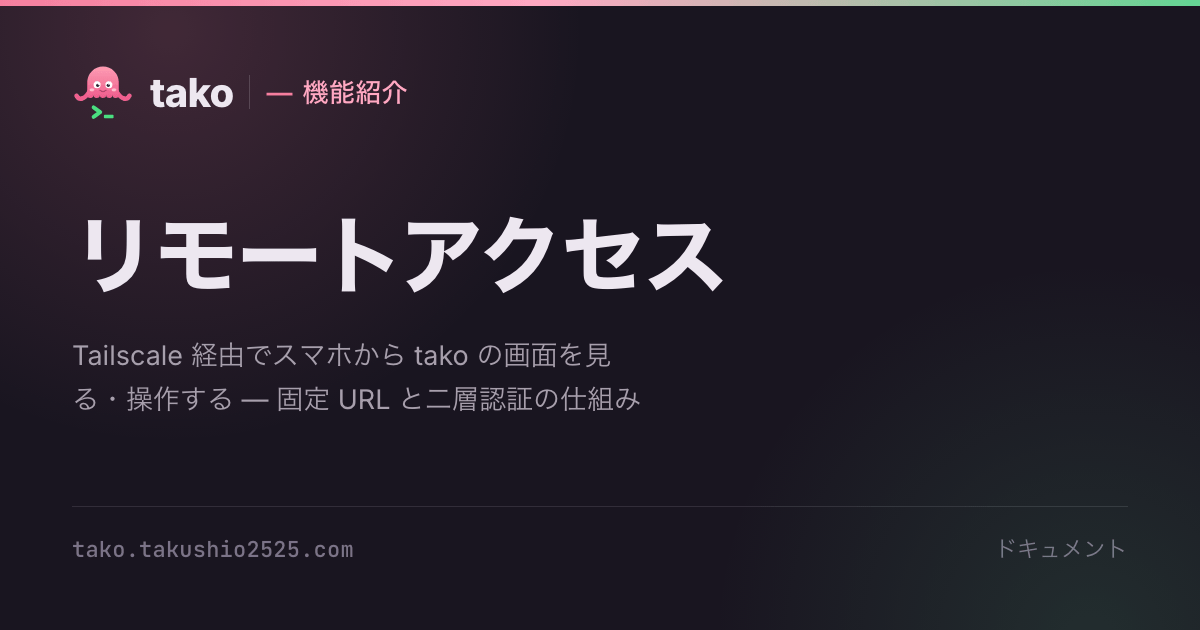
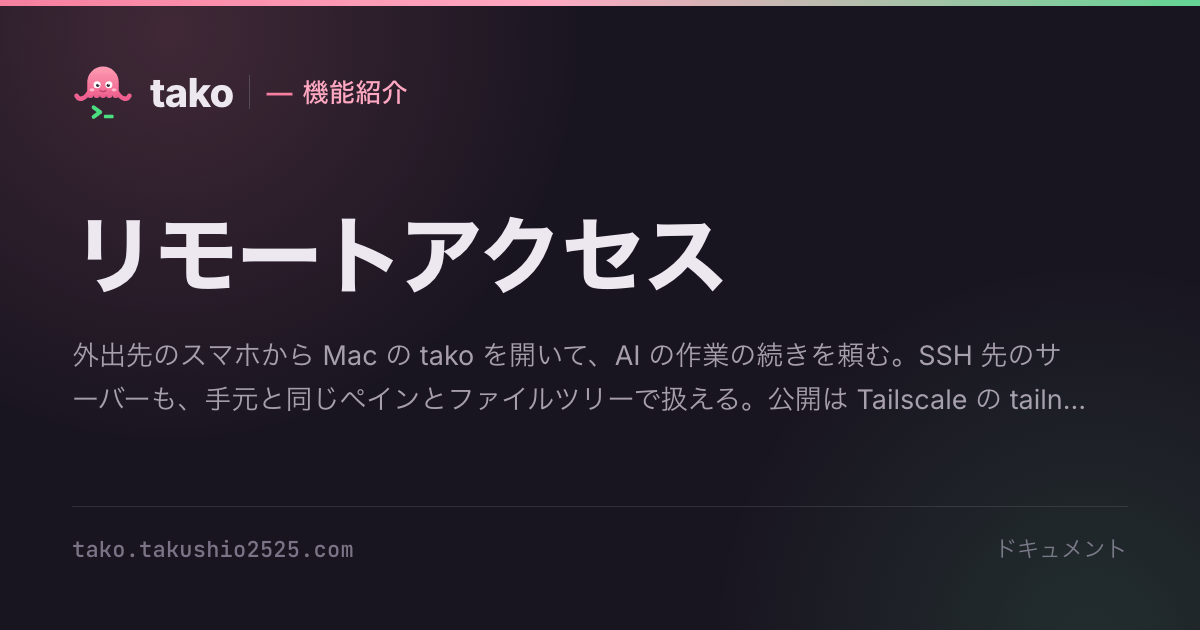
[ドキュメント] リモートのページの見え方を撮影で詰め、表を HTML にして OG を焼き直す (#2061)
スマホの再現を幅のある枠で一段大きくし、ペアリングの画面が収まる高さにした。
「新規」「実行」の折り返し・チャットの入力欄の見切れ・編集欄の余計な改行・
ツリーの「app」が潰れるのを直し、ポインターを押す先に合わせた
（SSH のホスト選択のポインターはパレットと一緒に消える）。
この版の MDX では GFM の表が効かないので、権限とコマンドの表は HTML で書いた。
説明文を変えたので features-remote の OG 画像を焼き直した。progress.md に追記。

Claude-Session: https://claude.ai/code/session_01NJ9RDPGyrij5aVryjACdQm

Changed region(s): [[0.0617, 0.5429, 0.8942, 0.6635]]

diff --git a/docs/src/styles/tako-ui-remote.css b/docs/src/styles/tako-ui-remote.css
@@ -210,6 +210,11 @@
   min-width: 0;
 }
 .tk-rside .tk-tree-row > span {
+  flex: none;
+}
+.tk-rside .tk-tree-row > .tk-ssh-badge {
+  flex: 0 1 auto;
+  min-width: 0;
   overflow: hidden;
   text-overflow: ellipsis;
 }
@@ -257,8 +262,15 @@
 /* ============================================================
  * スマホ（ヘッダーを場面ごとに描く版。PhoneBare.astro）
  * ============================================================ */
-.tk-phone-bare {
+.tk-phone.tk-phone-bare {
   position: relative;
+  font-size: 11px;
+}
+/* 幅に余裕がある枠では一段大きく描く（再現した画面の文字を読める大きさにする） */
+@container tkframe (min-width: 26rem) {
+  .tk-phone.tk-phone-bare {
+    font-size: 12px;
+  }
 }
 .tk-phone-bare .tk-phone-body {
   padding: 0;
@@ -270,15 +282,29 @@
 }
 /* 一覧の上部（PhoneHead.astro）。ボタンが 3 つ並ぶので一段詰める */
 .tk-phone-head-list .tk-phone-btn {
-  min-width: 2.1em;
-  height: 2.1em;
-  padding: 0 0.4em;
+  min-width: 2em;
+  height: 2em;
+  padding: 0 0.35em;
+  white-space: nowrap;
 }
 .tk-phone-head-list .tk-phone-new {
   display: inline-flex;
   gap: 0.2em;
   font-weight: 700;
   color: var(--ph-fg);
+}
+.tk-phone-head-list {
+  gap: 0.35em;
+  padding-inline: 0.7em;
+}
+.tk-phone-head-list .tk-phone-actions {
+  gap: 0.25em;
+}
+.tk-phone-head-list .tk-machine {
+  padding-inline: 0.55em;
+}
+.tk-phone-head-list .tk-machine i {
+  flex: none;
 }
 .tk-phone-head-list .tk-machine {
   min-width: 0;
@@ -462,6 +488,8 @@
 }
 .tk-prun {
   display: inline-flex;
+  flex: none;
+  white-space: nowrap;
   align-items: center;
   gap: 0.35em;
   border-radius: 0.7em;
@@ -546,8 +574,8 @@
   min-height: 0;
   display: flex;
   flex-direction: column;
-  gap: 0.5em;
-  padding: 0.9em 1em;
+  gap: 0.4em;
+  padding: 0.7em 0.9em;
   overflow: hidden;
 }
 .tk-pconnect h4 {
@@ -559,6 +587,7 @@
 }
 .tk-pconnect .tk-pnote {
   text-align: center;
+  font-size: 0.85em;
 }
 .tk-plabel {
   font-size: 0.72em;
@@ -582,7 +611,7 @@
   display: flex;
   align-items: center;
   gap: 0.5em;
-  padding: 0.4em 0.8em;
+  padding: 0.28em 0.75em;
   border-radius: 0.9em;
   border: 1px solid var(--ph-line);
 }
@@ -637,6 +666,7 @@
   margin: 0;
   font-size: 1.15em;
   font-weight: 700;
+  color: var(--ph-fg);
 }
 .tk-pspin {
   width: 2.2em;
@@ -727,7 +757,6 @@
   font-family: var(--ui-font);
   font-size: 0.92em;
   line-height: 1.6;
-  white-space: pre-wrap;
   overflow-wrap: anywhere;
   border: 1px solid var(--ph-line2);
   border-radius: 0.8em;

diff --git a/.agent/progress.md b/.agent/progress.md
@@ -63,3 +63,6 @@
 ## 2026-10-14（#2032: issue1944_lsp_fetch の取得中の検査のフレーク = 状態と進捗は別々に変わるので、揃った 1 回の読みを状態待ちで捕まえる）
 - 真因: 製品は状態（取得中）と進捗（fetch のレジストリ）を別々に変えるので、進捗を置く前と、取り終えて進捗を消してから稼働へ移るまで（#1977 の片付けが走る）は「取得中なのに進捗が無い」。旧テストは各時点で両方を求めていた。配布元に最後の 4 KiB を止める `Serve::Held` を足し、status と画面の口をそれぞれ 1 回の読みで確かめる。注入 `TAKO_2032_INJECT_OLD_FILES=<n>`
 - 実測: 旧 + 前の版の段 500 ファイル 5/5 FAILED・旧 + 進捗を置く前に 200 ms 3/3 FAILED（どちらも CI と同じ assert）・新は同じ注入で 5/5 / 3/3 ok・画面に進捗を出さない壊し方で新が名指しで落ちる・新 20/20 ok
+## 2026-10-15（#2061 #2053 S2-6: リモートのページをスクロール連動のモーションで作り直した）
+- `features/remote.mdx` に 4 場面: つなぐ（setup の 5 段 → start の QR → ペアリングの 4 権限 → Mac で承認）/ スマホで続き（一覧 → チャット → PC に出ているコマンドの実行）/「+ 新規」とファイル / SSH（ホスト → SSH ペイン → ツリーに SSH の札 → 保存はリモートへ）。部品 6 つ（QrCode は読めない図案）と `tako-ui-remote.css` は新規ファイルで、共有部品は無変更
+- Windows はスマホ = pending・SSH = 一部と WindowsLimits で縛った。1440 / 375 × 明暗 × reduce で横はみ出し 0。MDX では GFM の表が効かない（S1 のインストールの表も 0 件）ので、このページは HTML の表にした
